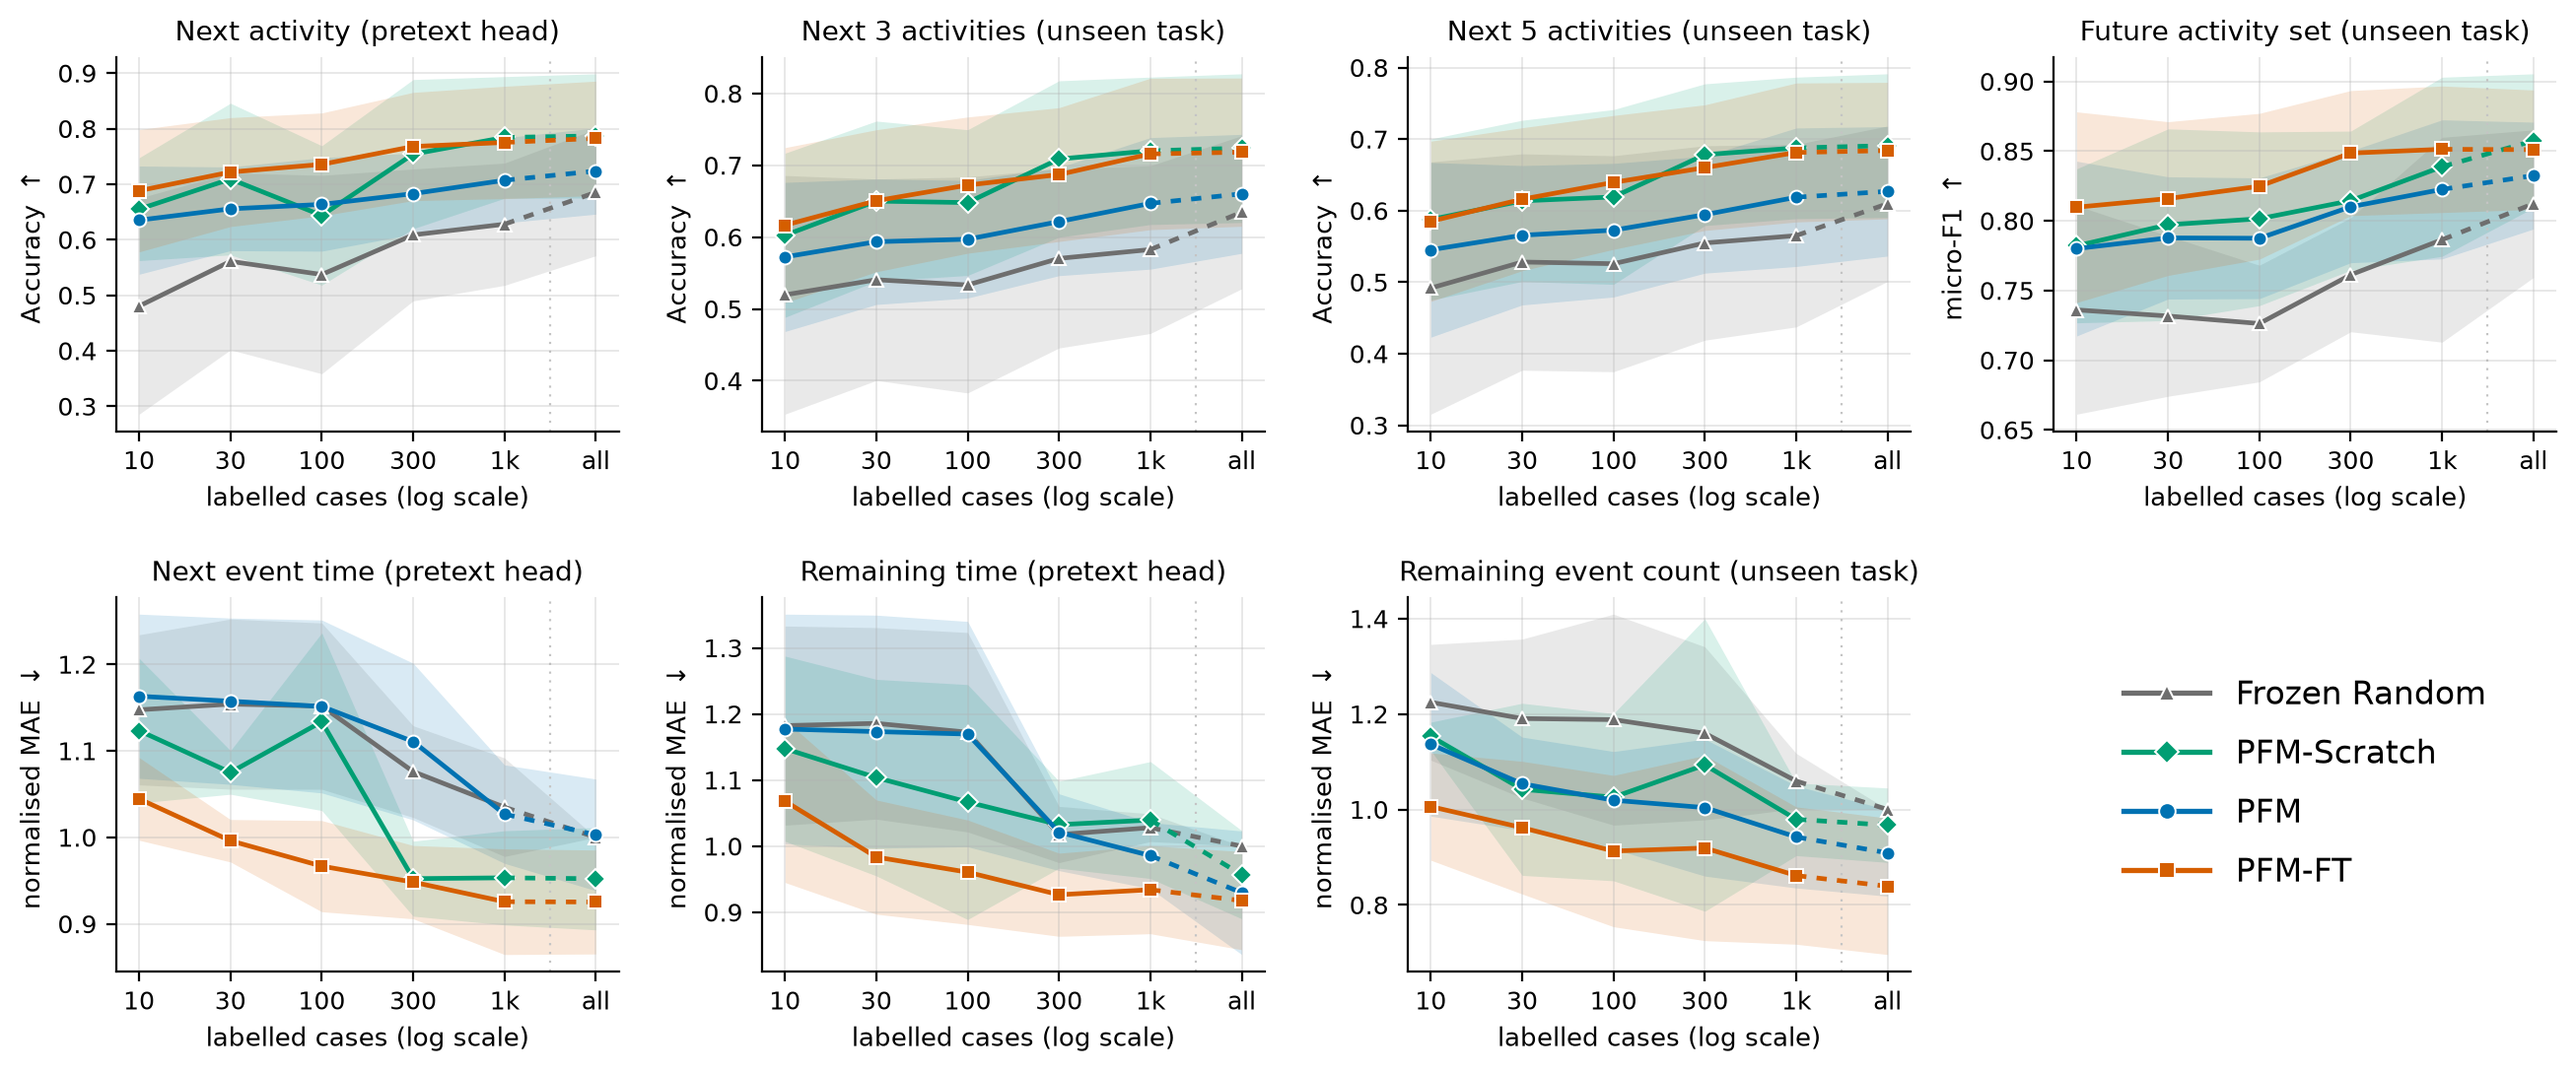
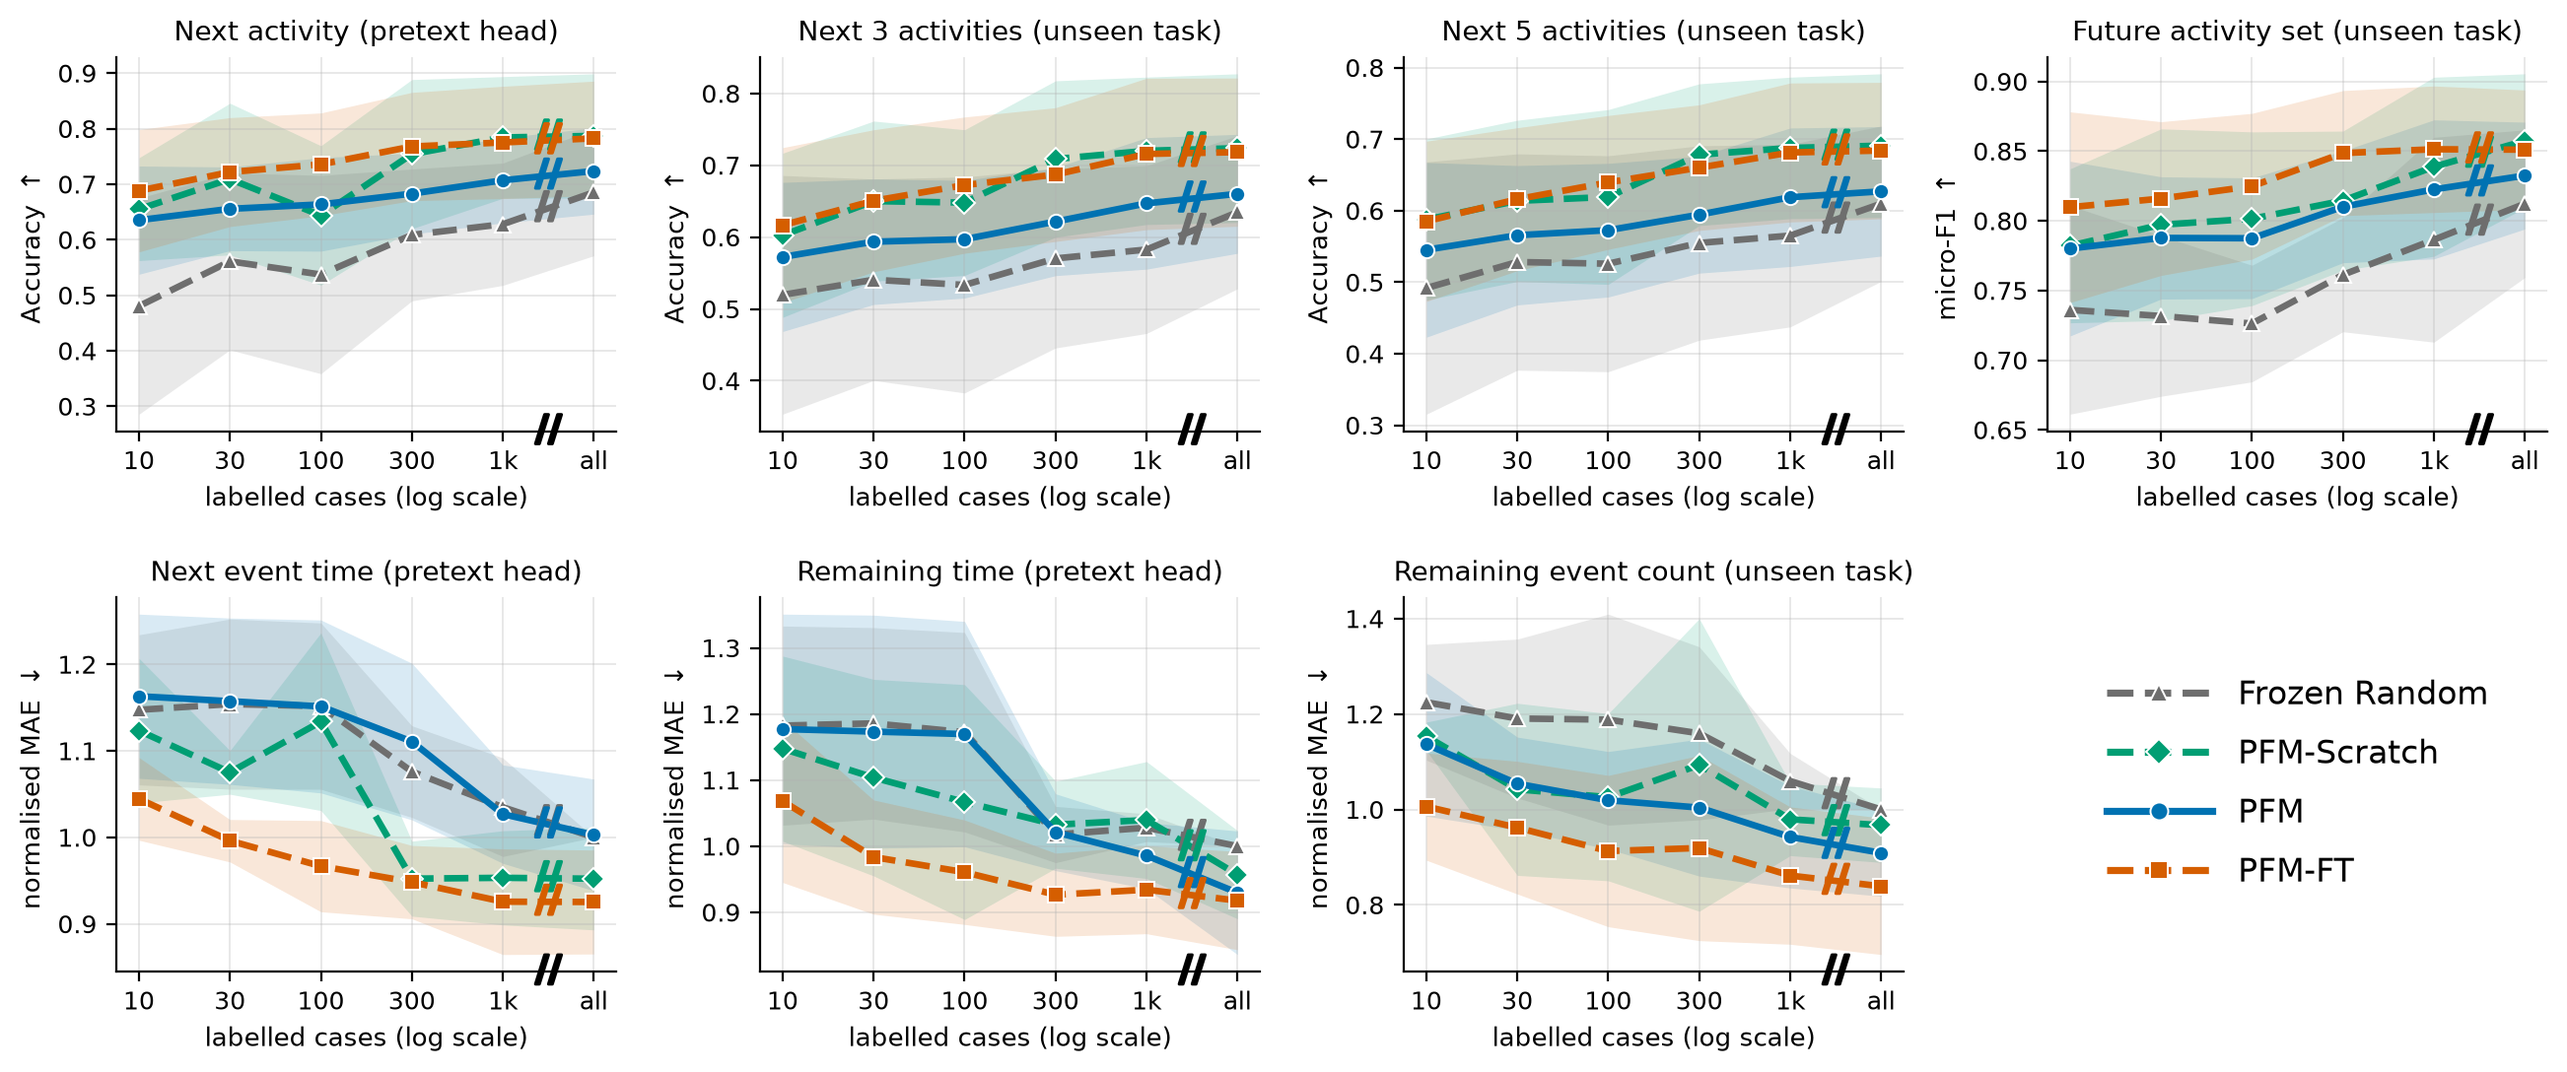
Fix the documented reproduction path (clean-clone dry run)
A clean clone exposed four problems:
- hpc/collect/collect_v2.py and collect_linhead.py printed a header-only CSV
  when they matched no run, so the documented '> results/v2_all.csv' truncated
  the committed results. Both now exit non-zero and print nothing instead, and
  REPRODUCE.md collects to a temporary file and moves it into place.
- REPRODUCE.md showed scripts/export_splits.py and export_queries.py without
  their required --log/--path/--out arguments; replaced with real invocations.
- figures/make_datasets_table.py wrote into the gitignored docs/ directory and
  crashed on a fresh clone; it now writes beside the other generated tables.
- Noted that scripts/log_stats.py needs data/raw/.

Also refreshes assets/frozen_agg_all.png, which predated the // axis break.

diff --git a/hpc/collect/collect_v2.py b/hpc/collect/collect_v2.py
@@ -20,5 +20,7 @@ for d in sorted(glob.glob("outputs/label_efficiency/*/")):
     for r in csv.DictReader(open(d + "curves.csv")):
         key = (lg, r["backbone_alias"], r["task"], r["n_labels"], r["seed"])
         rows[key] = (m["completed_at"], [lg, r["backbone_alias"], r["task"], r["n_labels"], r.get("n_train_samples", ""), r["seed"], r["value"], m["completed_at"]])
+if not rows:   # refuse to print a header-only CSV: redirecting it would truncate the committed results
+    sys.exit("no matching v2 label-efficiency runs under outputs/label_efficiency/; nothing collected")
 w = csv.writer(sys.stdout); w.writerow(["log", "arm", "task", "n_labels", "n_train_samples", "seed", "value", "run"])
 for key in sorted(rows): w.writerow(rows[key][1])

diff --git a/hpc/collect/collect_linhead.py b/hpc/collect/collect_linhead.py
@@ -27,6 +27,8 @@ for d in sorted(glob.glob("outputs/label_efficiency/*/")):
         key = (lg, r["backbone_alias"], r["task"], r["n_labels"], r["seed"])
         rows[key] = (m["completed_at"], [lg, r["backbone_alias"], r["task"], r["n_labels"],
                                          r.get("n_train_samples", ""), r["seed"], r["value"], m["completed_at"]])
+if not rows:   # refuse to print a header-only CSV: redirecting it would truncate the committed results
+    sys.exit("no matching linear-head runs under outputs/label_efficiency/; nothing collected")
 w = csv.writer(sys.stdout)
 w.writerow(["log", "arm", "task", "n_labels", "n_train_samples", "seed", "value", "run"])
 for k in sorted(rows):

diff --git a/figures/make_datasets_table.py b/figures/make_datasets_table.py
@@ -83,7 +83,7 @@ for label, block in ((r"\shortstack{Pre-training\\corpus}", pre),
             format(int(r["variants_fileorder"]), ","), num(r["mean_gap"]), num(r["mean_dur"])))
 L += [r"\bottomrule", r"\end{tabular}", r"\end{table}"]
 
-out = os.path.join(ROOT, "docs", "datasets_table.tex")
+out = os.path.join(HERE, "datasets_table.tex")   # beside the other generated tables (docs/ is not in the repo)
 open(out, "w").write("\n".join(L) + "\n")
 print("\n".join(L))
 print("\nwrote", out)

diff --git a/REPRODUCE.md b/REPRODUCE.md
@@ -195,8 +195,10 @@ python hpc/bench/bench_feat_importance.py <log>      # fingerprint permutation i
 ### Baselines
 
 ```bash
-python scripts/export_splits.py      # exact split manifests
-python scripts/export_queries.py     # exact test prefixes, so every method scores the same queries
+# one call per log; --max-traces mirrors the eval config (MIMIC: 5000)
+python scripts/export_splits.py  --log helpdesk --path data/raw/helpdesk.csv --out exports/helpdesk_splits.csv
+python scripts/export_queries.py --log helpdesk --path data/raw/helpdesk.csv --max-trace-len 64 \
+    --splits-csv exports/helpdesk_splits.csv --out exports/helpdesk_queries.csv
 python hpc/submit/submit_sutran.py   # SuTraN, non-data-aware, equal-weighted, CaLenDiR
 python hpc/submit/submit_fmv2.py     # FM-v2, released 4-expert checkpoint, k chosen on validation
 ```
@@ -209,9 +211,13 @@ comparison fair.
 Collectors walk `outputs/label_efficiency/*/manifest.json`, keep only runs matching the protocol, and
 emit one tidy CSV:
 
+These **overwrite the committed CSVs**, so run them only once `outputs/` holds your own runs.
+Collect to a temporary file and move it into place, so a run that collects nothing cannot truncate
+the shipped results (the collectors exit non-zero and print nothing when they match no run):
+
 ```bash
-python hpc/collect/collect_v2.py      > results/v2_all.csv
-python hpc/collect/collect_linhead.py > results/linhead_all.csv
+python hpc/collect/collect_v2.py      > /tmp/v2_all.csv      && mv /tmp/v2_all.csv      results/v2_all.csv
+python hpc/collect/collect_linhead.py > /tmp/linhead_all.csv && mv /tmp/linhead_all.csv results/linhead_all.csv
 ```
 
 Columns: `log, arm, task, n_labels, n_train_samples, seed, value, run`. One row per
@@ -238,7 +244,7 @@ python figures/frozen_agg_merged.py --seed2   # same panels from the seed-2 back
 python figures/sota_agg_plot.py           # writes results/sota_agg_data.csv, then
 python figures/sota_wall_plot.py          # Figure 4, baselines + adaptation cost
 python figures/make_table_ablation_v2.py  # Table 6 and the seed-replication table
-python figures/make_datasets_table.py     # Table 2
+python figures/make_datasets_table.py     # Table 2 (needs results/log_stats.csv)
 python figures/feats_importance_plot.py   # fingerprint non-redundancy
 ```
 
@@ -262,7 +268,7 @@ TikZ sources under `docs/`, which is not published.
 
 | Paper element | Produced by |
 |---|---|
-| Table 2, dataset statistics | `scripts/log_stats.py` → `make_datasets_table.py` |
+| Table 2, dataset statistics | `scripts/log_stats.py` (needs `data/raw/`) → `make_datasets_table.py` |
 | Table 5, full-budget results | `submit_v2.py main` → `collect_v2.py` |
 | Table 6, component ablation | `submit_v2.py ablation` → `make_table_ablation_v2.py` |
 | Figure 3, label efficiency | `submit_v2.py main` → `frozen_agg_merged.py` |
